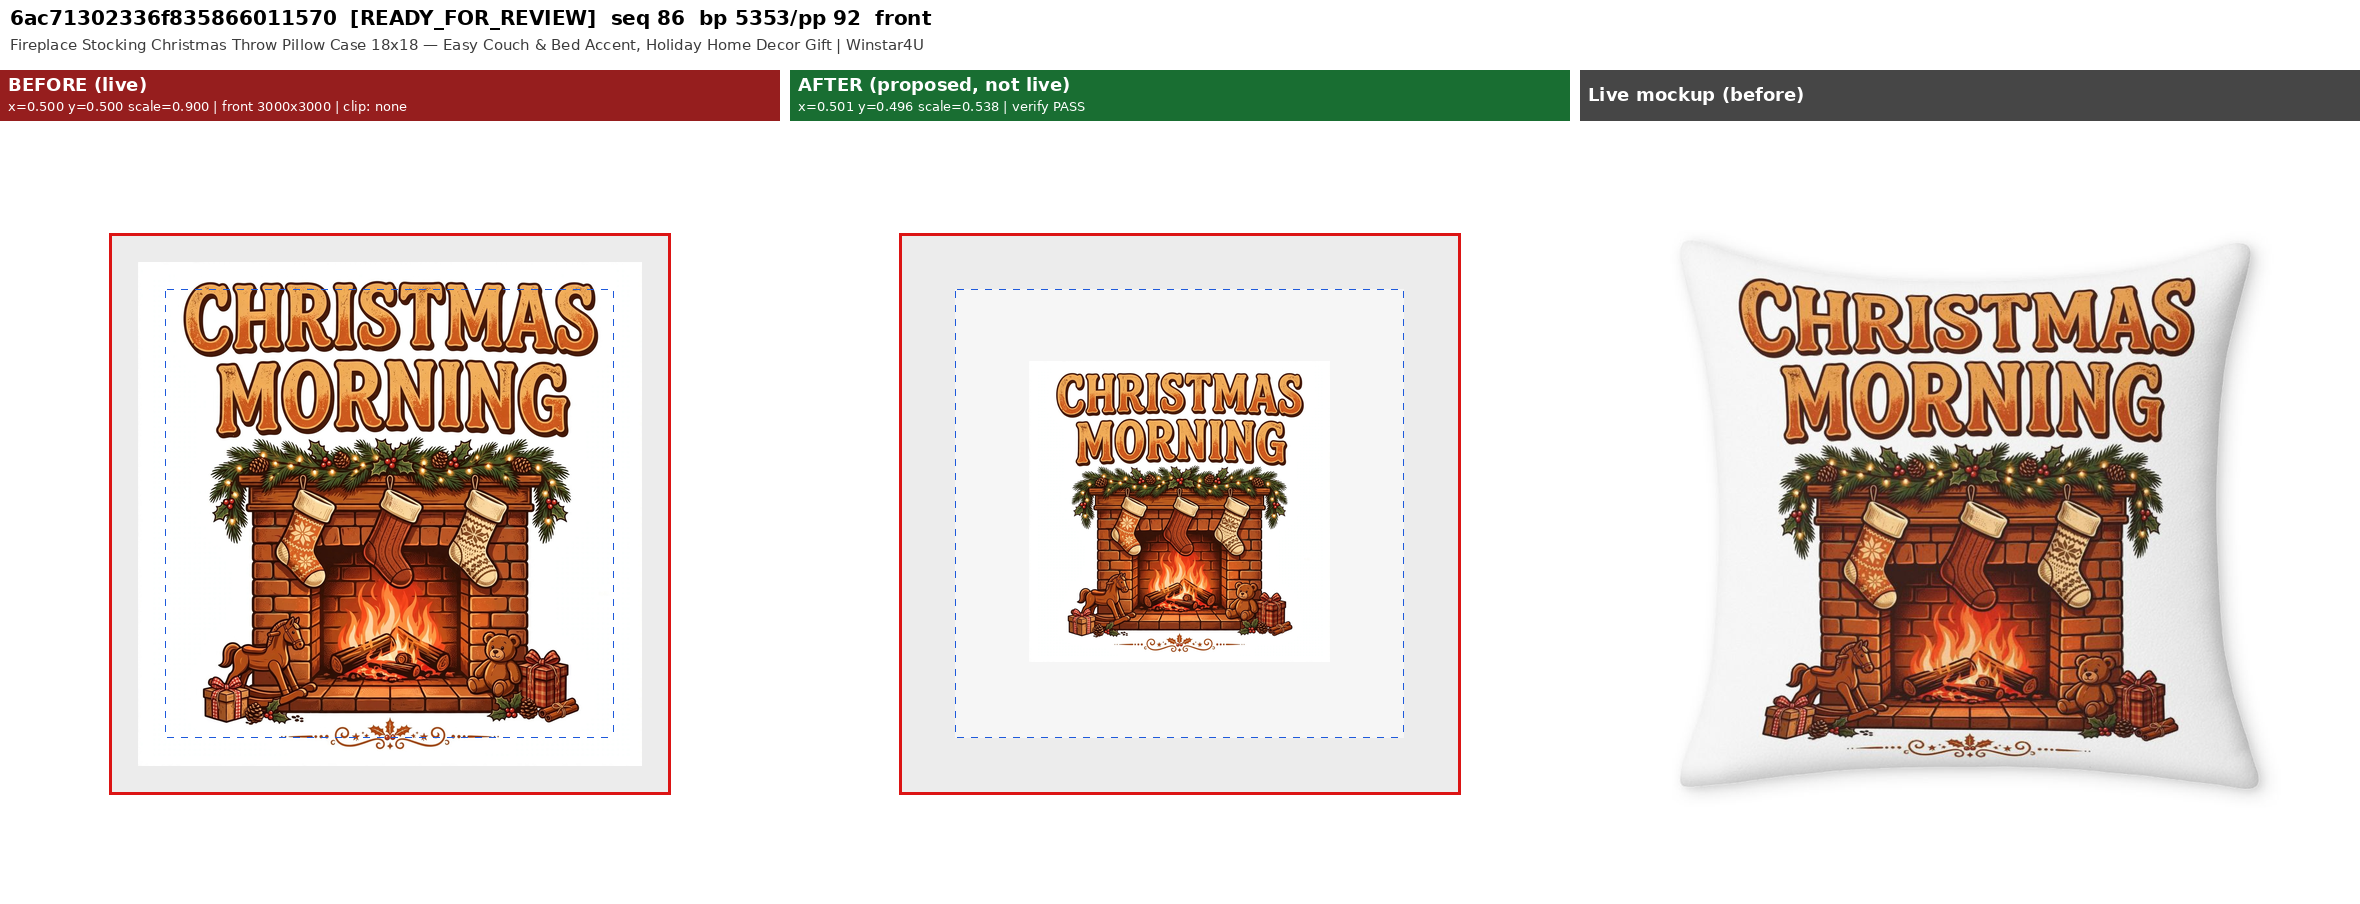
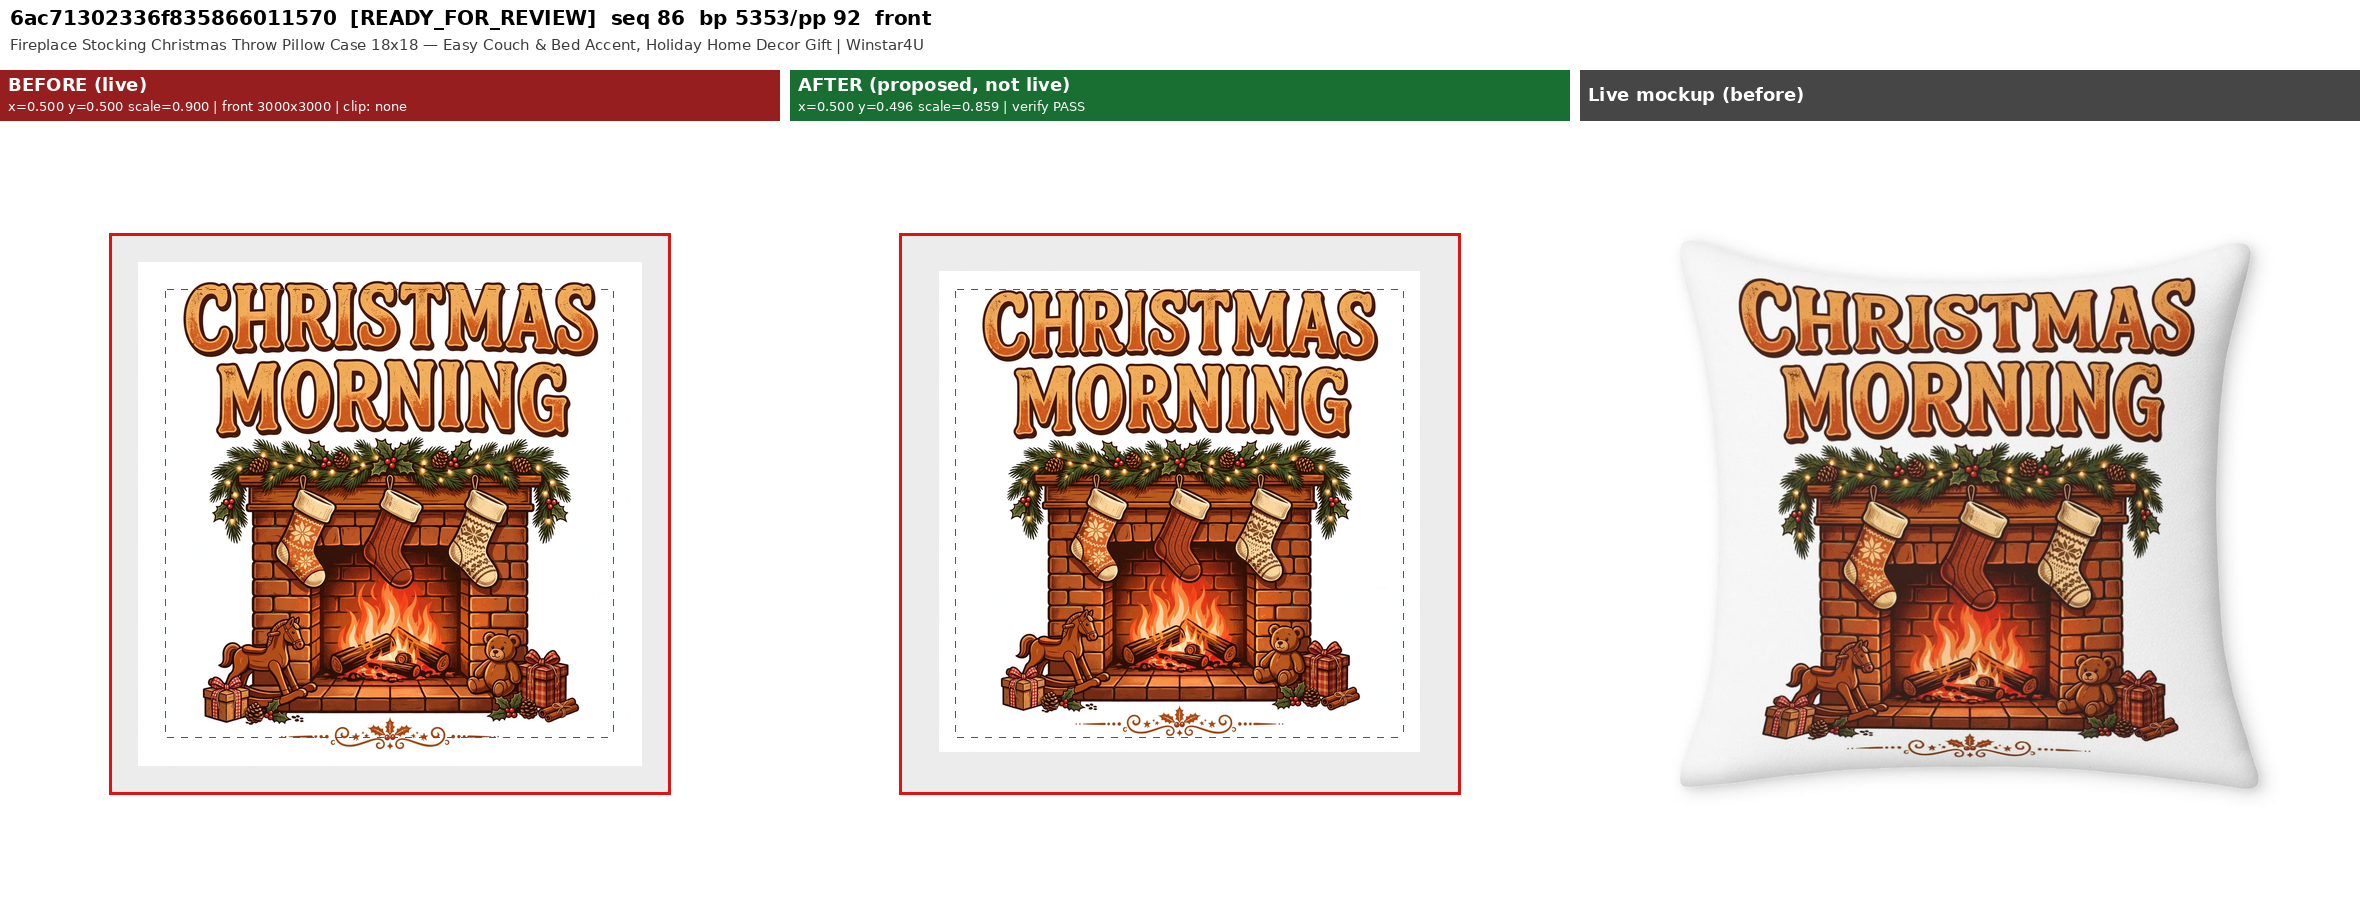
D6 batch 3 final non-live repair package (39 ready, 1 new art)
Claude-Session: https://claude.ai/code/session_01BSkC5XxP77rgJpPeXiQmNW

Changed region(s): [[0.4021, 0.3097, 0.5877, 0.8363]]

diff --git a/work/d6_batch3/build.py b/work/d6_batch3/build.py
@@ -450,8 +450,25 @@ def main():
                 status = "BLOCKED"; notes.append("optimiser found no feasible placement")
             else:
                 vres = verify(variants, cinfo, ar, proposed)
-                # effective resolution: source px per placeholder px
                 eff = min(img.width / (proposed["scale"] * V["W"]) for V in variants)
+                if OVR.get(pid, {}).get("per_variant") and len(variants) > 1:
+                    # batch 3: one shared placement is forced tiny by an outlier geometry (e.g. 12x18
+                    # landscape pillow case). Printify print_areas can be split per variant group, so
+                    # optimise + verify each distinct geometry separately.
+                    per, vres, eff = {}, [], 99.0
+                    for V in variants:
+                        pv = optimise([V], cinfo, ar, hint, cur)
+                        if pv is None:
+                            vres.append((V["vid"], 0.0)); continue
+                        per[V["vid"]] = pv
+                        vres.append(verify([V], cinfo, ar, pv)[0])
+                        eff = min(eff, img.width / (pv["scale"] * V["W"]))
+                    rec["proposed_per_variant_group"] = per
+                    rec["shared_placement_alternative"] = proposed
+                    notes.append("SPLIT print_areas per variant group (shared placement would be scale %.3f): %s" % (
+                        proposed["scale"], "; ".join("%s:x=%.4f,y=%.4f,s=%.3f" % (v, q["x"], q["y"], q["scale"]) for v, q in per.items())))
+                    proposed = per.get(variants[0]["vid"], proposed)
+                # effective resolution: source px per placeholder px
                 rec["effective_px_ratio_after"] = round(eff, 3)
                 if eff < 0.5:
                     notes.append("LOW-RES: art upscaled %.1fx on largest variant (src px/print px=%.2f)" % (1 / eff, eff))

diff --git a/reports/CHECKPOINT.md b/reports/CHECKPOINT.md
@@ -51,13 +51,14 @@
     - `6ac70ec09a2f0cb82508f89a`: the defect could not be reproduced.
   - Nothing is live. Applying the fixes needs owner approval, product by product.
 - **Batch 2:** DONE non-live 23:18:54–23:32:37 UTC (13.7 min). 30 READY, 9 NEEDS_NEW_ART, 1 BLOCKED. Evidence `work/d6_batch2/`.
-- **Batch 3:** next (seq 81–120).
+- **Batch 3:** DONE non-live 23:33:21–23:48:41 UTC (15.3 min). 39 READY, 1 NEEDS_NEW_ART, 0 BLOCKED. Evidence `work/d6_batch3/`.
+- **Batch 4:** next (seq 121–160).
 - **D7:** 2 Higgsfield variants generated. They are not inspected because the image host is blocked here, and the star emblem still needs a trademark check. See `work/d7_texaco_replacement/README.md`.
 - **Notifications:** batch packets go to the Bridge as soon as each batch finishes. There is no push to the owner's phone: the Bridge has no webhooks configured, and PushNotification isn't set up.
 
 ## Next action for the next session (resume here)
 
-0. Run `/resume`, then `/batch 3` (or the first batch not done).
+0. Run `/resume`, then `/batch 4` (or the first batch not done).
 
 1. Apply any D-decisions the owner has answered (D1 = set prices on 48 products from the CSV, then re-fetch each to verify).
 2. ~~Pull the Shopify catalog and fill Shopify `channel_link`.~~ **DONE 2026-11-19:** read-only pull of shop 26418699 (51 pages, 2,508 products; 486 have a storefront URL). Of the 1,602 Shopify SELL NOW rows, 330 have a link and stay SELL NOW; 1,272 have no link and are now UNKNOWN. 450 pulled Shopify products have no inspection row (UNKNOWN). New totals: SELL NOW 608 (Shopify 330, Etsy 241, TikTok 20, Amazon 17), REPAIR FIRST 447, HOLD 1, UNKNOWN 1,930, REMOVED 22. Linked holiday shortlist: 348 (Shopify 219, Etsy 92, TikTok 20, Amazon 17). Still to do: give ChatGPT the linked holiday list.
